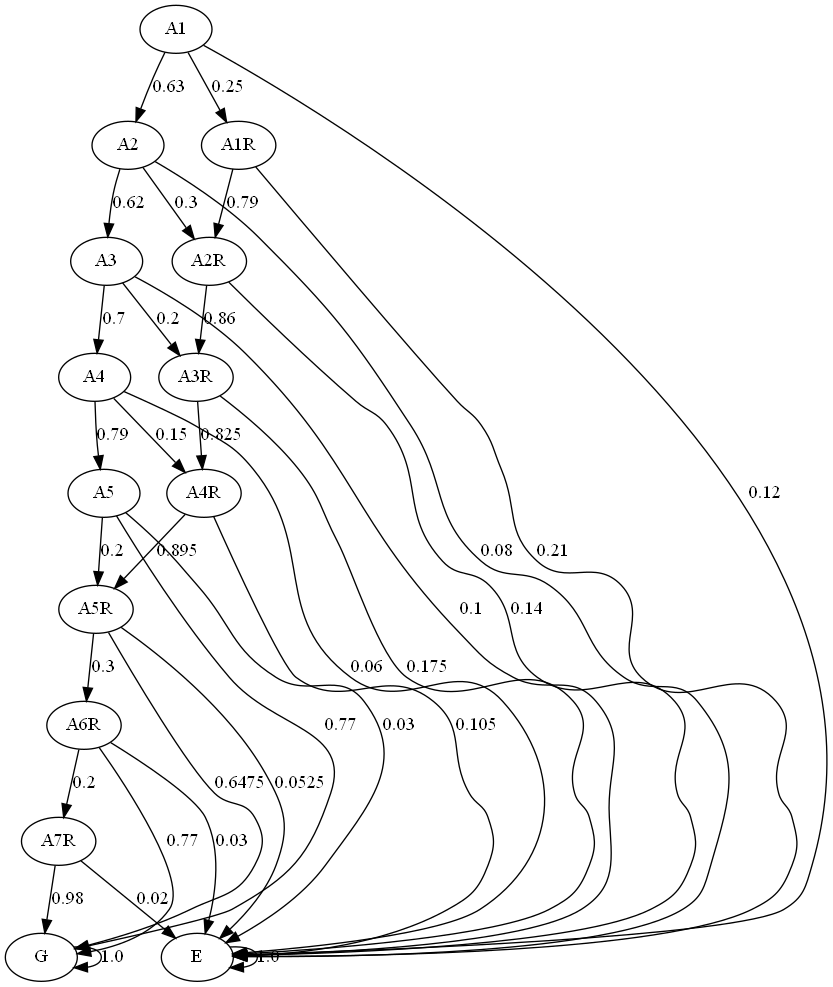
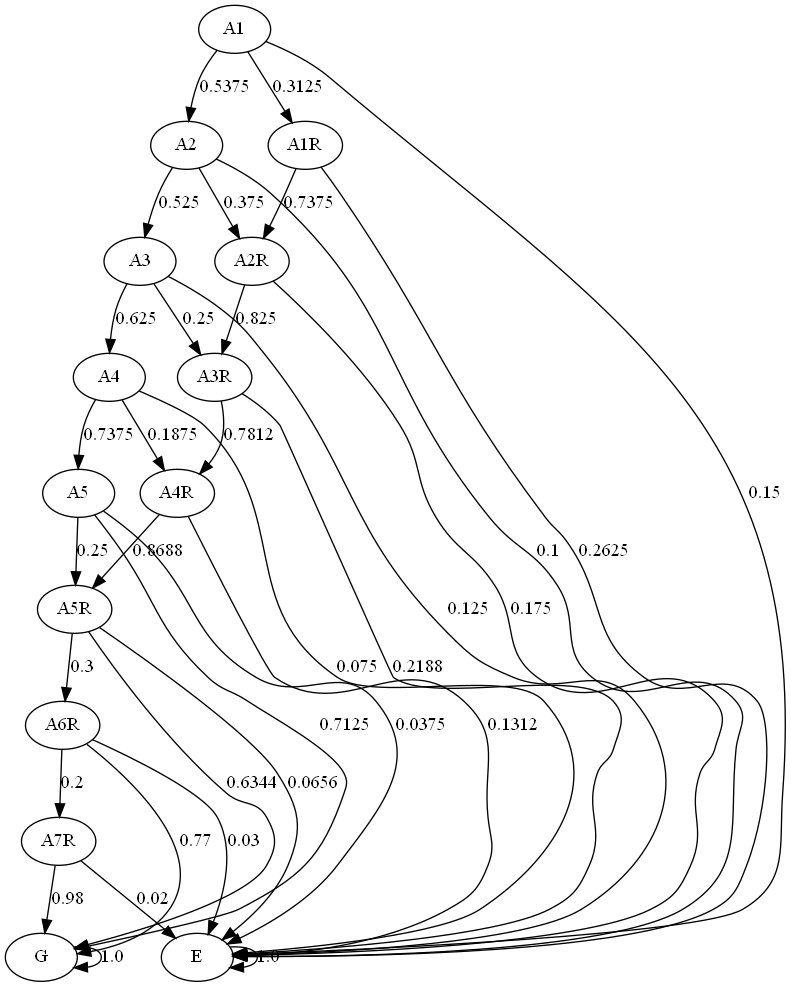
organizando

diff --git a/simulation.py b/simulation.py
@@ -3,9 +3,7 @@ import numpy as np
 import pandas as pd
 from pydtmc import MarkovChain, plot_graph, plot_walk
 from lifelines import KaplanMeierFitter
-
-from Aluno import Aluno
-from markov_diagram import Diagram
+from Student import Student
 
 
 # def prob_absor(p, N):
@@ -17,16 +15,11 @@ from markov_diagram import Diagram
 #
 #     return np.round(np.dot(R, N.T).T, 3)
 
-
 # informacoes sobre a cadeia de markov
 # print(mc)
 
 # p = np.round(p, 4)
 # matriz_transicao()
-#
-# # Desenha Cadeia de Markov
-# d = Diagram(statenames)
-# #d.make_markov_diagram()
 #
 # stateHist = state
 # mc = MarkovChain(p, statenames)
@@ -52,7 +45,7 @@ from markov_diagram import Diagram
 #     print(probGE[i])
 
 
-def sobrevivencia(time, event_observed, label, color):
+def sobrevivencia(time, event_observed, label, color, title):
     kmf = KaplanMeierFitter()
 
     for i in range(len(time)):
@@ -60,10 +53,10 @@ def sobrevivencia(time, event_observed, label, color):
         kmf.plot_survival_function(color=color[i])
 
     plt.xlabel('Tempo')
-    plt.ylabel('Probabilidade de Sobrevivência')
-    plt.suptitle("Análise de Sobrevivência", fontsize=18)
+    plt.ylabel('Probabilidade')
+    plt.suptitle(f"Análise de Sobrevivência: {title}", fontsize=18)
     plt.title("IC de 95% para a Média", fontsize=10)
-    plt.savefig(f"imgs/plot{label}.png")
+    plt.savefig(f"imgs/plot{title}.png")
     plt.show()
     # kmf.plot_cumulative_density(ci_show=False)
     # plt.show()
@@ -90,7 +83,7 @@ def Simu(quantAlunos, matriz):
     event_observedR = np.array([])
 
     for i in range(quantAlunos):
-        a = Aluno(i, matriz)
+        a = Student(i, matriz)
         list(a.gen)
         arr = a.history
 
@@ -155,27 +148,33 @@ def Simu(quantAlunos, matriz):
 
 
 
-quantAlunos = 200
+quantAlunos = 500
 
 
 # Simulação por Gênero
-timeF, event_observedEF, event_observedGF, event_observedRF, event_observedTF = Simu(quantAlunos, 'matrixF.csv')  # Exemplo Feminino
-timeM, event_observedEM, event_observedGM, event_observedRM, event_observedTM = Simu(quantAlunos, 'matrixM.csv')  # Exemplo Masculino
+print("\nFeminino")
+timeF, event_observedEF, event_observedGF, event_observedRF, event_observedTF = Simu(quantAlunos, 'matrix/matrixF.csv')
+print("\nMasculino")
+timeM, event_observedEM, event_observedGM, event_observedRM, event_observedTM = Simu(quantAlunos, 'matrix/matrixM.csv')
 
 times = [timeF, timeM]
-events = [event_observedEF, event_observedEM]
-colors = ["pink", "blue"]
+eventsE = [event_observedEF, event_observedEM]
+eventsG = [event_observedGF, event_observedGM]
+eventsR = [event_observedRF, event_observedRM]
+colors = ["red", "blue"]
 labels = ["Feminino", "Masculino"]
 
-sobrevivencia(times, events, labels, colors)
+sobrevivencia(times, eventsE, labels, colors, "Evasão")
+sobrevivencia(times, eventsG, labels, colors, "Graduação")
+sobrevivencia(times, eventsR, labels, colors, "Retenção")
 
 
 # Simulação Geral
-time, event_observedE, event_observedG, event_observedR, event_observedT = Simu(quantAlunos, 'matrix.csv')
-
-sobrevivencia([time], [event_observedE], ['Evadido'], ["red"])
-sobrevivencia([time], [event_observedG], ['Graduado'], ["green"])
-sobrevivencia([time], [event_observedR], ['Retido'], ["orange"])
+# time, event_observedE, event_observedG, event_observedR, event_observedT = Simu(quantAlunos, 'matrix/matrix.csv')
+#
+# sobrevivencia([time], [event_observedE], ['Evadido'], ["red"])
+# sobrevivencia([time], [event_observedG], ['Graduado'], ["green"])
+# sobrevivencia([time], [event_observedR], ['Retido'], ["orange"])
 # sobrevivencia([time], [event_observedT], ['Trancado'], ["grey"])
 
 

diff --git a/generate_mc.py b/generate_mc.py
@@ -2,9 +2,10 @@ import pandas as pd
 import numpy as np
 from markov_diagram import Diagram
 
-
-taxaRetencao = 1.0
-taxaEvasao = 1.0
+#Alterar aqui parametros para gerar matriz
+nomeArquivo = "matrix/matrixM.csv"
+taxaRetencao = 1.25
+taxaEvasao = 1.25
 taxaEvasaoR = 1.0
 taxaTrancar = 1.0
 taxaTrancarR = 1.0
@@ -212,9 +213,8 @@ p = [[0.0, A1toA2, 0.0, 0.0, 0.0, A1toA1R, 0.0, 0.0, 0.0, 0.0, 0.0, 0.0, 0.0, A1
 #      [0.0, 0.0, 0.0, 0.0, 0.0, 0.0, 1.0]]
 
 
-
-
-def matriz_transicao(arquivo, states, p):
+# Gerar csv com matriz de transicao e desenho da cadeia de markov
+def generate_csv_and_diagram(arquivo, states, p):
     q_df = pd.DataFrame(columns=states, index=states)
     i = 0
     for state in states:
@@ -222,31 +222,57 @@ def matriz_transicao(arquivo, states, p):
         i += 1
 
     q_df.to_csv(arquivo)
+
     # Desenha Cadeia de Markov
-    d = Diagram(states)
-    # TODO Passar o csv
+    d = Diagram(arquivo)
     d.make_markov_diagram()
 
-    # Progressão dos alunos entre diferentes estados
-    print("\n Matriz de Transição:")
-    print(q_df)
+
+# Cria matriz de transição passando um array com os estados transicionando
+def transition_matrix(transitions):
+    n = 1+ max(transitions) #number of states
+
+    M = [[0]*n for _ in range(n)]
+
+    for (i,j) in zip(transitions, transitions[1:]):
+        M[i][j] += 1
+
+    #now convert to probabilities:
+    for row in M:
+        s = sum(row)
+        if s > 0:
+            row[:] = [f/s for f in row]
+    return M
 
 
+# estados transicionando
+# t = [1,1,2,6,8,5,5,7,8,8,1,1,4,5,5,0,0,0,1,1,4,4,5,1,3,3,4,5,4,1,1]
+# states = np.unique(t)
+# p = transition_matrix(t)
+
+
+p = np.round(p, 4)
+generate_csv_and_diagram(nomeArquivo, states, p)
+
+
+# Transition probabilities matrix
+p = pd.read_csv(nomeArquivo, index_col=0)
+print("\n Matriz de Transição:")
+print(p)
+
+
+
+#Teste gerar matriz de transicao
 
 # states = ['A1', 'A2', 'A3', 'A4', 'A5', 'G', 'E']
 # n = [100, 90, 80, ]
 #
 # #calcula o p
 # p = 0
-
-
-p = np.round(p, 4)
-matriz_transicao("matrixtest.csv", states, p)
+#
+# transitionMatrix = np.zeros((len(states), len(states)))
 
 
 
-#Transition probabilities matrix
-p = pd.read_csv('matrixtest.csv', index_col=0)
-print(p)
 
 

diff --git a/markov_diagram.py b/markov_diagram.py
@@ -2,13 +2,11 @@ import pydot
 import networkx as nx
 import pandas as pd
 
-#Transition probabilities
-df_Q = pd.read_csv('matrix.csv', index_col=0)
-
 class Diagram:
 
-    def __init__(self, states):
-        self.states = states
+    def __init__(self, matrix):
+        self.df_Q = pd.read_csv(matrix, index_col=0)
+        self.states = self.df_Q.columns
 
     def make_markov_diagram(self):
         # create a function that maps transition probability dataframe
@@ -21,7 +19,7 @@ class Diagram:
                     edges[(idx, col)] = Q.loc[idx, col]
             return edges
 
-        edges_wts = _get_markov_edges(df_Q)
+        edges_wts = _get_markov_edges(self.df_Q)
         # pprint(edges_wts)
 
         # create graph object
@@ -44,7 +42,7 @@ class Diagram:
         # create edge labels for jupyter plot but is not necessary
         edge_labels = {(n1, n2): d['label'] for n1, n2, d in G.edges(data=True)}
         nx.draw_networkx_edge_labels(G, pos, edge_labels=edge_labels)
-        #nx.drawing.nx_pydot.write_dot(G, 'graph/markov.dot')
+        nx.drawing.nx_pydot.write_dot(G, 'graph/markov.dot')
 
         (graph,) = pydot.graph_from_dot_file('graph/markov.dot')
         graph.write_png('graph/markov.png')

diff --git a/old/oldmarkovchain.py b/old/oldmarkovchain.py
@@ -4,7 +4,7 @@ import pandas as pd
 from pydtmc import MarkovChain, plot_graph, plot_walk
 from lifelines import KaplanMeierFitter
 
-from Aluno import Aluno
+from Student import Student
 from markov_diagram import Diagram
 
 taxaRetencao = 1.0
@@ -357,7 +357,7 @@ def Simu(quantAlunos, matriz):
     event_observedE = np.array([])
 
     for i in range(quantAlunos):
-        a = Aluno(i, matriz)
+        a = Student(i, matriz)
         list(a.gen)
         arr = a.history
 

diff --git a/Student.py b/Student.py
@@ -2,10 +2,10 @@ import numpy as np
 import pandas as pd
 
 
-class Aluno:
+class Student:
 
-    def __init__(self, aluno_id, matrix):
-        self.aluno_id = aluno_id
+    def __init__(self, student_id, matrix):
+        self.student_id = student_id
         self.df_Q = pd.read_csv(matrix, index_col=0)
         self.states = self.df_Q.columns
         self.state = self.states[0]

diff --git a/tests/test3.py b/tests/test3.py
@@ -1,6 +1,6 @@
-from Aluno import Aluno
+from Student import Student
 
-a = Aluno(1)
+a = Student(1)
 # next = a.get_next_state()
 list(a.gen)
 states = a.history
